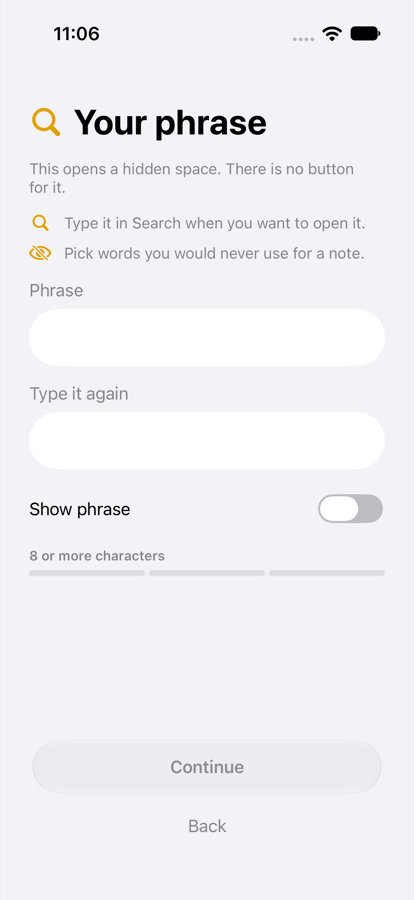
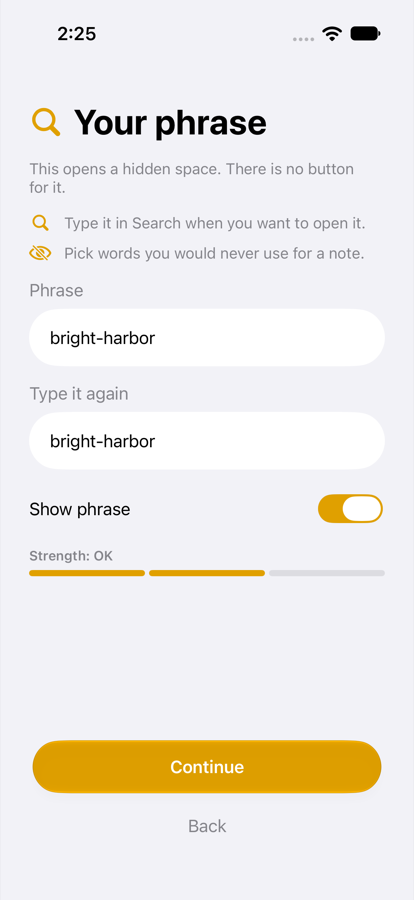
Show an example phrase on the first-launch phrase screen so Continue is yellow.

diff --git a/NoteLy/Views/Onboarding/GuidedOnboardingView.swift b/NoteLy/Views/Onboarding/GuidedOnboardingView.swift
@@ -182,12 +182,30 @@ struct GuidedOnboardingView: View {
         var transaction = Transaction()
         transaction.disablesAnimations = true
         withTransaction(transaction) {
-            if mode == .firstLaunch, let match = flow.firstIndex(where: { $0.rawValue == saved }), match > 0 {
-                path = Array(flow.dropFirst().prefix(match))
-            } else {
-                path = []
+            path = restoredPath(saved: saved)
+        }
+        #if DEBUG
+        if mode == .firstLaunch, UITestHooks.showOnboardingPhrase {
+            showPhrase = true
+            DispatchQueue.main.asyncAfter(deadline: .now() + 0.4) {
+                showPhrase = true
+                phrase = "bright-harbor"
+                phraseConfirm = "bright-harbor"
             }
         }
+        #endif
+    }
+
+    private func restoredPath(saved: Int) -> [OnboardingStep] {
+        #if DEBUG
+        if mode == .firstLaunch, UITestHooks.showOnboardingPhrase {
+            return [.phrase]
+        }
+        #endif
+        if mode == .firstLaunch, let match = flow.firstIndex(where: { $0.rawValue == saved }), match > 0 {
+            return Array(flow.dropFirst().prefix(match))
+        }
+        return []
     }
 
     private func continueForward() {
@@ -350,7 +368,7 @@ struct GuidedOnboardingView: View {
                     .foregroundStyle(.primary)
             }
         }
-        .privacySensitive()
+        .modifier(PhrasePrivacy())
     }
 
     private func hintRow(_ symbol: String, _ text: String) -> some View {
@@ -558,6 +576,20 @@ struct GuidedOnboardingView: View {
 
     private func phraseField(_ title: String, text: Binding<String>, identifier: String) -> some View {
         PlainTextBox(title: title, text: text, secure: !showPhrase, identifier: identifier)
+    }
+}
+
+private struct PhrasePrivacy: ViewModifier {
+    func body(content: Content) -> some View {
+        #if DEBUG
+        if UITestHooks.showOnboardingPhrase {
+            content
+        } else {
+            content.privacySensitive()
+        }
+        #else
+        content.privacySensitive()
+        #endif
     }
 }
 

diff --git a/NoteLyUITests/GuideScreenshotUITests.swift b/NoteLyUITests/GuideScreenshotUITests.swift
@@ -246,6 +246,24 @@ final class GuideScreenshotUITests: XCTestCase {
         XCUIDevice.shared.appearance = .light
     }
 
+    func testCaptureOnboardingPhrase() {
+        XCUIDevice.shared.appearance = .light
+        let app = XCUIApplication()
+        app.launchArguments = [
+            "-ui-testing",
+            "-ui-testing-reset-onboarding",
+            "-ui-testing-show-onboarding-phrase"
+        ]
+        app.launch()
+        XCTAssertTrue(app.staticTexts["Your phrase"].waitForExistence(timeout: 8))
+        XCTAssertTrue(app.staticTexts["Strength: OK"].waitForExistence(timeout: 6))
+        let button = app.buttons["onboarding.continue"]
+        XCTAssertTrue(button.waitForExistence(timeout: 4))
+        XCTAssertTrue(button.isEnabled)
+        sleep(1)
+        snap("02-phrase")
+    }
+
     func testCapturePhraseFilled() {
         XCUIDevice.shared.appearance = .light
         let app = XCUIApplication()

diff --git a/NoteLy/App/AppState.swift b/NoteLy/App/AppState.swift
@@ -1000,6 +1000,11 @@ enum UITestHooks {
         isEnabled && ProcessInfo.processInfo.arguments.contains("-ui-testing-show-phrase")
     }
 
+    /// Opens the first-launch phrase step with an example already typed.
+    static var showOnboardingPhrase: Bool {
+        isEnabled && ProcessInfo.processInfo.arguments.contains("-ui-testing-show-onboarding-phrase")
+    }
+
     /// Supplied by the UI test process. Empty unless `-ui-testing` is also set.
     static var phrase: String? {
         guard isEnabled else { return nil }

diff --git a/NoteLy/Views/Components/Theme.swift b/NoteLy/Views/Components/Theme.swift
@@ -74,7 +74,7 @@ struct PlainTextBox: View {
     @ViewBuilder
     private var protectedField: some View {
         #if DEBUG
-        if UITestHooks.showFilledPhrase {
+        if UITestHooks.showFilledPhrase || UITestHooks.showOnboardingPhrase {
             field
         } else {
             field.privacySensitive()

diff --git a/README.md b/README.md
@@ -10,7 +10,7 @@ Screens below are from the iPhone app.
 
 ### First launch
 
-Get Started, then a phrase you type twice, a 6-digit code, and optional Face ID.
+Get Started, then a phrase you type twice, a 6-digit code, and optional Face ID. The phrase screen shows an example, bright-harbor, so Continue is ready. That example is not a phrase saved on a phone.
 
 | Welcome | Your phrase |
 | --- | --- |
